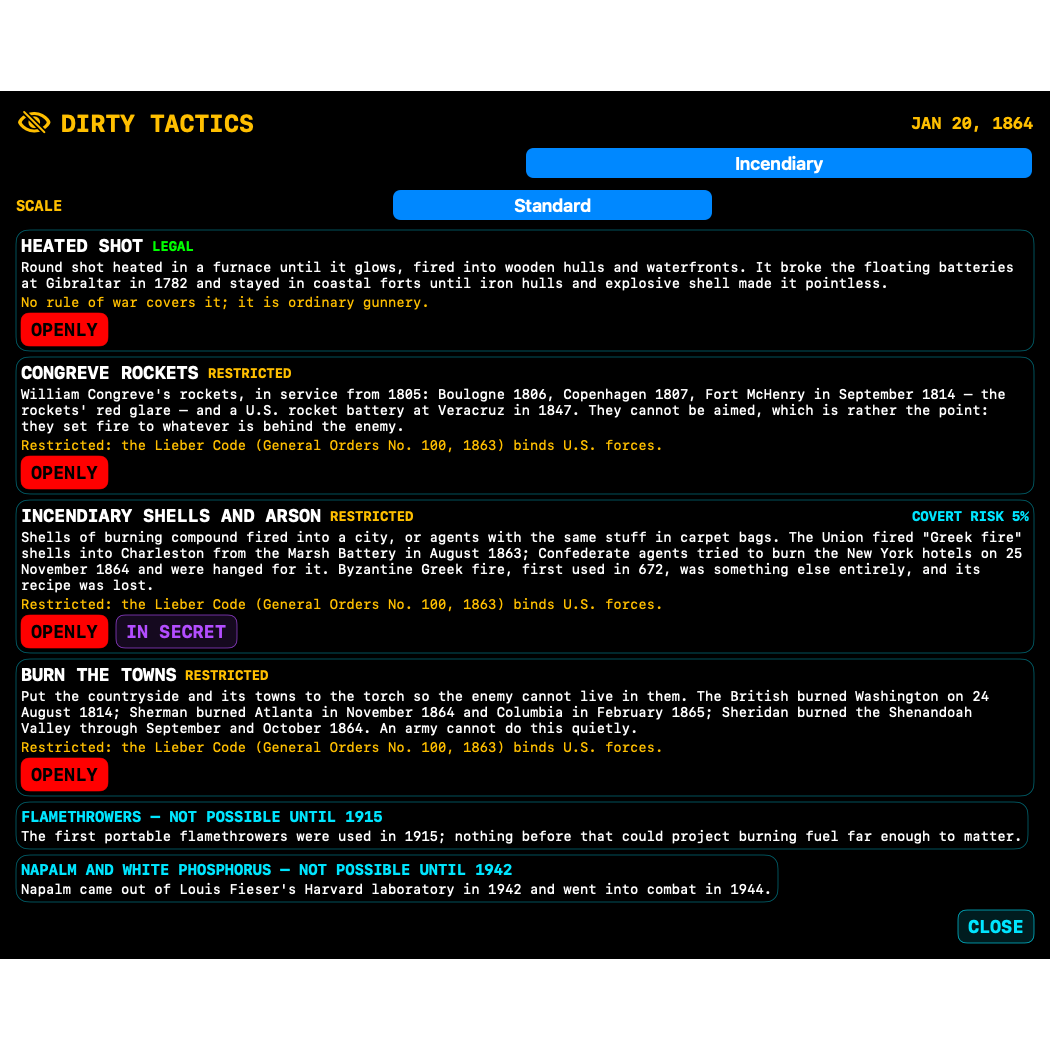
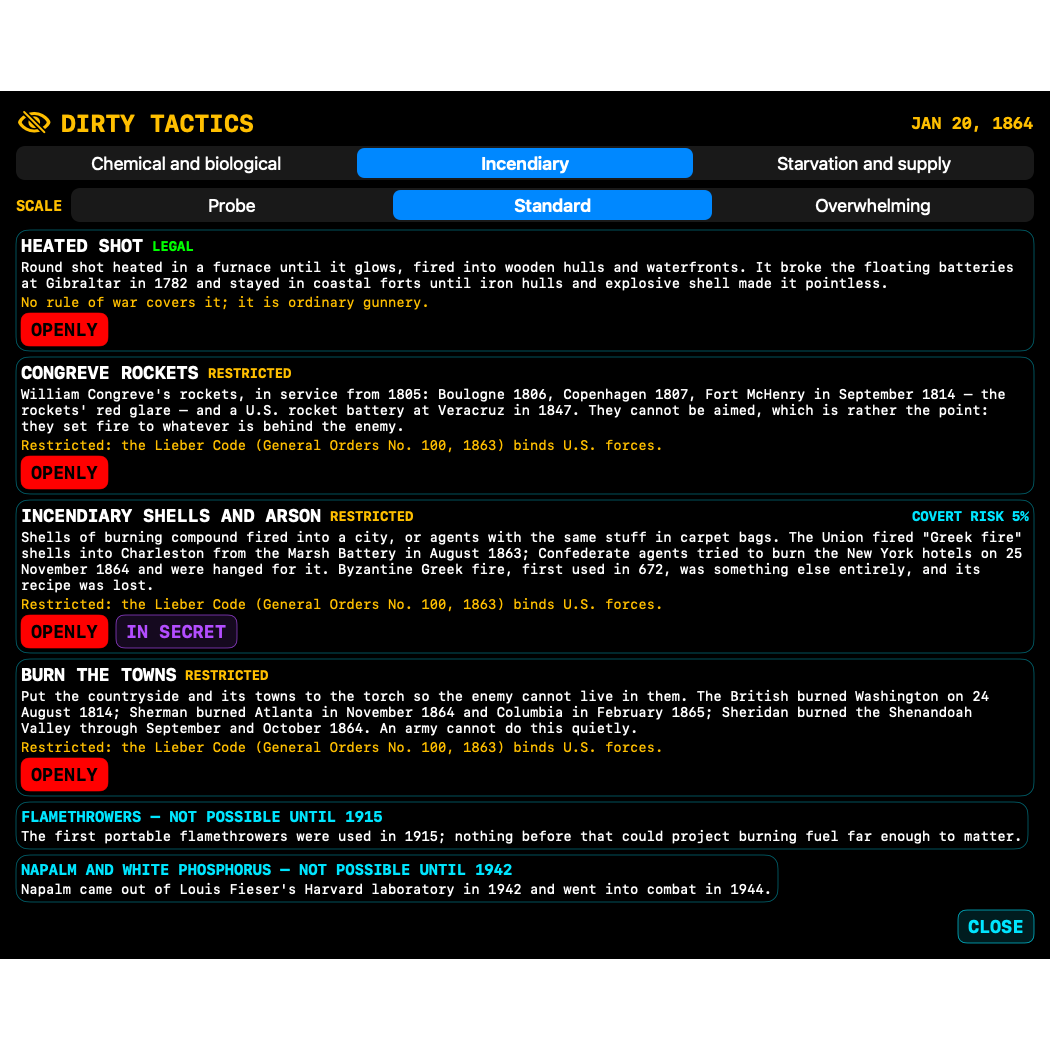
test: Starvation and supply in all seven categories; 3.17.2 snapshots
11 tests: the era windows and each treaty that closed one, the 1906 food laws
changing the odds rather than the era, scorched earth against supply and
output, the blockade stance biting every turn and lapsing with the blockade,
the herds and the resistance that goes with them, the embalmed-beef bargain
end to end, targets and stance checks, a requisition that pays then starves,
a stance surviving a save, and the per-turn stance cost. Snapshots of the
starvation panel in 1917 in both skins, and the 3.17.1 snapshots re-rendered
with the legible pickers.

625 tests, 0 failures, single muted run.

Changed region(s): [[0.0, 0.1219, 1.0, 0.2133]]

diff --git a/GTNWTests/ShadowSystemsTests.swift b/GTNWTests/ShadowSystemsTests.swift
@@ -4740,3 +4740,166 @@ final class DirtyTacticsIncendiaryTests: XCTestCase {
         }
     }
 }
+
+// MARK: - 3.17.2: dirty tactics — starvation and supply
+
+@MainActor
+final class DirtyTacticsStarvationTests: XCTestCase {
+
+    private func war(_ year: Int, with foe: String) throws -> (GameEngine, GameState) {
+        let e = GameEngine()
+        e.startNewGame(turnLength: .month, year: year)
+        let gs = try XCTUnwrap(e.gameState)
+        e.declareWar(aggressor: gs.playerCountryID, defender: foe)
+        e.syncFronts()
+        return (e, gs)
+    }
+
+    /// A game with one territory the player holds.
+    private func withTerritory(_ year: Int, _ id: String) throws -> (GameEngine, GameState) {
+        let e = GameEngine()
+        e.startNewGame(turnLength: .month, year: year)
+        let gs = try XCTUnwrap(e.gameState)
+        let i = try XCTUnwrap(gs.countries.firstIndex { $0.id == id })
+        gs.countries[i].territoryOf = gs.playerCountryID
+        gs.shadow.claimDates[id] = GameCalendar.date(year: year - 3, month: 1, day: 1)
+        return (e, gs)
+    }
+
+    // Unit: windows and treaties
+    func testStarvationErasAndTreaties() {
+        let scorch = DirtyTactics.tactic("scorched_earth")!
+        XCTAssertEqual(scorch.status(in: 1812), .legal)
+        XCTAssertEqual(scorch.status(in: 1864), .restricted, "the Lieber Code of 1863")
+        XCTAssertEqual(scorch.status(in: 1960), .treatyBanned, "Geneva IV Art. 53")
+        let blockade = DirtyTactics.tactic("starve_blockade")!
+        XCTAssertTrue(blockade.isStance)
+        XCTAssertEqual(blockade.status(in: 1917), .legal, "no treaty bound the British blockade")
+        XCTAssertEqual(blockade.status(in: 1960), .restricted)
+        XCTAssertEqual(blockade.status(in: 1990), .treatyBanned, "Additional Protocol I Art. 54, 1977")
+        let herds = DirtyTactics.tactic("buffalo_slaughter")!
+        XCTAssertFalse(herds.exists(in: 1860))
+        XCTAssertTrue(herds.exists(in: 1874))
+        XCTAssertFalse(herds.exists(in: 1890), "there were no herds left")
+        let beef = DirtyTactics.tactic("profiteer_contracts")!
+        XCTAssertFalse(beef.exists(in: 1850))
+        XCTAssertEqual(beef.status(in: 1898), .legal)
+        XCTAssertEqual(beef.status(in: 1910), .restricted, "the Pure Food and Drug Act of 1906")
+    }
+
+    // Unit: federal food inspection after 1906 makes a ration scandal far likelier to come out
+    func testPureFoodActRaisesDetection() {
+        let beef = DirtyTactics.tactic("profiteer_contracts")!
+        let before = DirtyTactics.discoveryChance(beef, year: 1898)
+        let after = DirtyTactics.discoveryChance(beef, year: 1910)
+        XCTAssertGreaterThan(after, before * 2, "inspection changes the odds, not just the era")
+        XCTAssertEqual(DirtyTactics.exposureBonus(beef, year: 1898), 1)
+        XCTAssertGreaterThan(DirtyTactics.exposureBonus(beef, year: 1907), 1)
+        XCTAssertEqual(DirtyTactics.exposureBonus(DirtyTactics.tactic("scorched_earth")!, year: 1910), 1)
+    }
+
+    // Functional: scorched earth takes the enemy's supply and his will
+    func testScorchedEarth() throws {
+        let (e, gs) = try war(1864, with: "GBR")
+        let troops = try XCTUnwrap(gs.shadow.fronts.first).defenderTroops
+        let gdp = try XCTUnwrap(gs.getCountry(id: "GBR")).gdp
+        XCTAssertNotNil(e.useTactic("scorched_earth", target: "GBR"))
+        XCTAssertLessThan(try XCTUnwrap(gs.shadow.fronts.first).defenderTroops, troops)
+        XCTAssertLessThan(try XCTUnwrap(gs.getCountry(id: "GBR")).gdp, gdp)
+    }
+
+    // Functional: the starvation stance needs a blockade, bites every turn, and lapses when the blockade is lifted
+    func testStarvationBlockadeStance() throws {
+        let (e, gs) = try war(1917, with: "DEU")
+        XCTAssertNotNil(e.tacticProblem("starve_blockade", target: "DEU"), "no blockade, no stance")
+        gs.shadow.fleetDeployments.append(FleetDeployment(fleetID: "atlantic", target: "DEU", mission: .blockade,
+                                                          commitment: 1, ships: FleetComposition(), fromLat: 0, fromLon: 0,
+                                                          toLat: 0, toLon: 0, departed: gs.currentDate, arrives: gs.currentDate,
+                                                          status: .onStation))
+        XCTAssertNil(e.tacticProblem("starve_blockade", target: "DEU"))
+        XCTAssertTrue(e.setStance("starve_blockade", target: "DEU", on: true))
+        XCTAssertFalse(e.setStance("starve_blockade", target: "DEU", on: true), "already in force")
+        let gdp = try XCTUnwrap(gs.getCountry(id: "DEU")).gdp
+        let ruth = gs.shadow.ruthlessness
+        for _ in 0..<6 { gs.turn += 1; e.processTacticStances() }
+        XCTAssertLessThan(try XCTUnwrap(gs.getCountry(id: "DEU")).gdp, gdp, "the blockade bites every turn")
+        XCTAssertGreaterThan(gs.shadow.ruthlessness, ruth, "a standing policy is nobody's secret")
+        gs.shadow.fleetDeployments.removeAll()
+        e.processTacticStances()
+        XCTAssertTrue(gs.shadow.tacticStances.isEmpty, "the stance lapses with the blockade")
+        XCTAssertTrue(gs.shadow.ticker.contains { $0.text.contains("has been lifted") })
+    }
+
+    // Functional: the herds, and the land that is easier to take afterwards
+    func testDestroyingTheHerdsBreaksResistance() throws {
+        let e = GameEngine()
+        e.startNewGame(turnLength: .month, year: 1874)
+        let gs = try XCTUnwrap(e.gameState)
+        let land = try XCTUnwrap(gs.indigenousLandIDs.sorted().first)
+        XCTAssertNotNil(e.useTactic("buffalo_slaughter", target: land))
+        XCTAssertGreaterThan(gs.shadow.resistanceBroken[land] ?? 0, 0)
+        XCTAssertGreaterThan(gs.shadow.ruthlessness, 0)
+    }
+
+    // Functional: the embalmed-beef bargain — cash now, sick soldiers now, a commission later
+    func testProfiteeringPaysThenCosts() throws {
+        let (e, gs) = try war(1898, with: "ESP")
+        let funds = gs.shadow.aidRemaining
+        let will = try XCTUnwrap(gs.shadow.fronts.first).attackerWill
+        XCTAssertNotNil(e.useTactic("profiteer_contracts", covert: true, discoveryRoll: 0.99))
+        XCTAssertGreaterThan(gs.shadow.aidRemaining, funds, "cash and kickbacks now")
+        XCTAssertLessThan(try XCTUnwrap(gs.shadow.fronts.first).attackerWill, will, "your own men are sick")
+        XCTAssertEqual(gs.shadow.aftermath.count, 1)
+        let pop = gs.shadow.popularity
+        for _ in 0..<24 { gs.turn += 1; e.processDirtyTactics() }
+        XCTAssertLessThan(gs.shadow.popularity, pop, "the commission of inquiry")
+        XCTAssertGreaterThan(gs.shadow.impeachmentStage, 0)
+    }
+
+    // Security: a requisition only works on your own territory, and a stance only on a stance tactic
+    func testStarvationTargetsAreChecked() throws {
+        let (e, gs) = try withTerritory(1900, "CUB")
+        XCTAssertNotNil(e.tacticProblem("requisition_harvest", target: "GBR"), "not another nation")
+        XCTAssertNotNil(e.tacticProblem("requisition_harvest", target: gs.playerCountryID))
+        XCTAssertNil(e.tacticProblem("requisition_harvest", target: "CUB"))
+        XCTAssertFalse(e.setStance("scorched_earth", target: "GBR", on: true), "not a stance")
+        XCTAssertFalse(e.setStance("starve_blockade", target: "GBR", on: false), "nothing to lift")
+    }
+
+    // Integration: a requisition pays at once and brings a famine a year later, through the turn loop
+    func testRequisitionPaysThenStarves() throws {
+        let (e, gs) = try withTerritory(1900, "CUB")
+        let funds = gs.shadow.aidRemaining
+        XCTAssertNotNil(e.useTactic("requisition_harvest", target: "CUB"))
+        XCTAssertGreaterThan(gs.shadow.aidRemaining, funds)
+        XCTAssertLessThan(try XCTUnwrap(gs.getCountry(id: "CUB")).stability, 100)
+        for _ in 0..<14 { gs.turn += 1; e.processDirtyTactics() }
+        XCTAssertTrue(gs.shadow.ticker.contains { $0.text.contains("Famine") })
+        XCTAssertTrue(gs.shadow.aftermath.isEmpty)
+    }
+
+    // Retry: a stance in force survives a save and reload
+    func testStancesSurviveSave() throws {
+        let (e, gs) = try war(1917, with: "DEU")
+        gs.shadow.fleetDeployments.append(FleetDeployment(fleetID: "atlantic", target: "DEU", mission: .blockade,
+                                                          commitment: 1, ships: FleetComposition(), fromLat: 0, fromLon: 0,
+                                                          toLat: 0, toLon: 0, departed: gs.currentDate, arrives: gs.currentDate,
+                                                          status: .onStation))
+        e.setStance("starve_blockade", target: "DEU", on: true)
+        let loaded = try JSONDecoder().decode(GameState.self, from: JSONEncoder().encode(gs))
+        XCTAssertTrue(loaded.shadow.tacticStances.contains(DirtyTactics.stanceKey("starve_blockade", target: "DEU")))
+        XCTAssertEqual(DirtyTactics.splitStance("starve_blockade:DEU").1, "DEU")
+        XCTAssertNil(DirtyTactics.splitStance("starve_blockade").1)
+    }
+
+    // Performance: stances cost nothing to carry
+    func testStanceTickIsCheap() throws {
+        let (e, gs) = try war(1917, with: "DEU")
+        gs.shadow.fleetDeployments.append(FleetDeployment(fleetID: "atlantic", target: "DEU", mission: .blockade,
+                                                          commitment: 1, ships: FleetComposition(), fromLat: 0, fromLon: 0,
+                                                          toLat: 0, toLon: 0, departed: gs.currentDate, arrives: gs.currentDate,
+                                                          status: .onStation))
+        e.setStance("starve_blockade", target: "DEU", on: true)
+        measure { for _ in 0..<300 { e.processTacticStances() } }
+    }
+}

diff --git a/GTNWTests/SnapshotRenderTests.swift b/GTNWTests/SnapshotRenderTests.swift
@@ -670,5 +670,24 @@ final class SnapshotRenderTests: XCTestCase {
             print("SNAPSHOT \(try render(sheet.environmentObject(engine), size: CGSize(width: FontScale.w(700), height: FontScale.h(700)), name: "tactics-incendiary-1864-\(theme.rawValue)").path)")
         }
     }
+
+    /// 3.17.2: starvation and supply in 1917, with the blockade of Germany already on station.
+    @MainActor
+    func testRenderDirtyTacticsStarvation() throws {
+        let engine = GameEngine()
+        engine.startNewGame(turnLength: .month, year: 1917)
+        let gs = try XCTUnwrap(engine.gameState)
+        engine.declareWar(aggressor: gs.playerCountryID, defender: "DEU")
+        gs.shadow.fleetDeployments.append(FleetDeployment(fleetID: "atlantic", target: "DEU", mission: .blockade,
+                                                          commitment: 1, ships: FleetComposition(surface: 20), fromLat: 0, fromLon: 0,
+                                                          toLat: 0, toLon: 0, departed: gs.currentDate, arrives: gs.currentDate,
+                                                          status: .onStation))
+        defer { Theme.forced = nil }
+        for theme in GameTheme.allCases {
+            Theme.forced = theme
+            let sheet = DirtyTacticsSheet(gameState: gs, targetID: "DEU", scrolls: false, startGroup: .starvation)
+            print("SNAPSHOT \(try render(sheet.environmentObject(engine), size: CGSize(width: FontScale.w(700), height: FontScale.h(700)), name: "tactics-starvation-1917-\(theme.rawValue)").path)")
+        }
+    }
 }
 #endif
